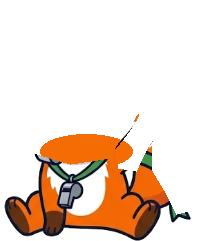
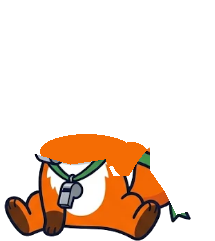
fix(web): el Míster mueve brazo y cabeza sin arrastrar ni perder trazos de la cara
Capas con prioridad brazo > cabeza > cola, brazo recortado a su contorno y rellenos de hombro y cuello limitados al hueco que dejan al girar.

Changed region(s): [[0.5023, 0.5519, 0.7256, 0.7552], [0.614, 0.4647, 0.6419, 0.5228], [0.586, 0.5228, 0.614, 0.5519]]

diff --git a/scripts/rig_mascot.py b/scripts/rig_mascot.py
@@ -27,21 +27,26 @@ RIGS = {
     },
     "brief": {
         "source": "brief",
-        "head": [(0, 0), (229, 0), (229, 116), (166, 118), (150, 140), (132, 152), (92, 158), (52, 152), (36, 134),
-                 (28, 112), (0, 108)],
+        # El brazo pasa bajo el borde de la mejilla con margen: el contorno de la cara se queda en la cabeza.
+        "head": [(0, 0), (229, 0), (229, 116), (166, 118), (150, 140), (132, 152), (92, 158), (52, 154), (38, 138),
+                 (27, 128), (21, 119), (0, 111)],
         "tail": [(156, 116), (229, 116), (229, 206), (196, 218), (176, 206), (154, 160)],
-        "arm": [(0, 112), (26, 112), (34, 132), (48, 148), (52, 168), (38, 176), (6, 170), (0, 152)],
-        "neck": (44, 132, 140, 166),
+        "arm": [(0, 114), (17, 121), (22, 129), (31, 137), (35, 152), (48, 157), (54, 170), (38, 178), (6, 172),
+                (0, 152)],
+        "neck": (64, 140, 122, 166),          # angosto: no asoma bajo las mejillas en reposo
+        "fills": [(28, 150, 56, 178)],         # base del brazo: no queda hueco al mover el dedo
     },
     "alerts": {
         "source": "alerts",
-        # La cabeza sigue el borde de la oreja y el contorno izquierdo del brazo, que cruza sobre la mejilla.
-        "head": [(0, 0), (215, 0), (215, 40), (164, 46), (147, 86), (137, 94), (138, 112), (128, 128), (114, 148),
-                 (110, 158), (70, 164), (30, 152), (0, 132)],
-        "tail": [(152, 142), (160, 128), (166, 118), (215, 118), (215, 204), (176, 214), (164, 190), (152, 170)],
-        "arm": [(138, 92), (150, 85), (161, 83), (173, 88), (175, 100), (166, 118), (157, 133), (148, 146), (141, 159),
-                (136, 171), (118, 168), (115, 150), (129, 132), (139, 116), (136, 104)],
+        # El antebrazo cruza por delante de la mejilla: el brazo se recorta ajustado a su propio contorno (pata,
+        # pulgar y los dos bordes del antebrazo) y la cabeza se queda con todo lo demás, incluido su borde derecho.
+        "arm": [(139, 92), (146, 86), (156, 82), (166, 82), (175, 90), (175, 108), (169, 121), (153, 141), (139, 158),
+                (128, 175), (113, 175), (106, 160), (108, 150), (127, 132), (144, 117), (139, 111), (137, 100)],
+        "head": [(0, 0), (215, 0), (215, 60), (160, 62), (152, 82), (141, 92), (137, 100), (139, 111), (146, 117),
+                 (130, 133), (112, 150), (110, 158), (70, 164), (30, 152), (0, 132)],
+        "tail": [(150, 142), (158, 128), (166, 118), (215, 118), (215, 204), (176, 214), (164, 190), (150, 170)],
         "neck": (40, 134, 132, 168),
+        "fills": [(112, 142, 150, 178)],       # hombro: no queda hueco al saludar
     },
 }
 
@@ -72,13 +77,31 @@ def fur_color(image: Image.Image) -> tuple[int, int, int, int]:
 def build(name: str, rig: dict) -> None:
     image = Image.open(SOURCES / f"{rig['source']}.png").convert("RGBA")
     size = image.size
-    parts = {key: mask(size, rig[key]) for key in ("head", "tail", "arm") if key in rig}
+    # Prioridad brazo > cabeza > cola: cada capa pierde lo que ya tomó la anterior, así ningún trazo queda en dos
+    # capas (al moverse se vería duplicado) ni se pierde (al moverse quedaría un hueco en la cara).
+    parts: dict[str, Image.Image] = {}
+    taken = Image.new("L", size, 0)
+    for key in ("arm", "head", "tail"):
+        if key in rig:
+            parts[key] = ImageChops.subtract(mask(size, rig[key]), taken)
+            taken = ImageChops.lighter(taken, parts[key])
     rest = Image.new("L", size, 255)
     for m in parts.values():
         rest = ImageChops.subtract(rest, m)
     body = layer(image, rest)
     neck = Image.new("RGBA", size, (0, 0, 0, 0))
-    ImageDraw.Draw(neck).ellipse(rig["neck"], fill=fur_color(image))
+    # Rellenos tras el cuerpo, recortados a lo que tapaban cabeza y brazo (y a lo pintado del dibujo): solo aparecen
+    # en el hueco que dejan al girar, nunca sobre el fondo ni sobre la cola.
+    fill = Image.new("L", size, 0)
+    draw = ImageDraw.Draw(fill)
+    for box in [rig["neck"], *rig.get("fills", [])]:
+        draw.ellipse(box, fill=255)
+    movable = Image.new("L", size, 0)
+    for key in ("arm", "head"):
+        if key in parts:
+            movable = ImageChops.lighter(movable, parts[key])
+    covered = ImageChops.multiply(ImageChops.multiply(fill, movable), image.getchannel("A"))   # nunca sobre el fondo
+    neck.paste(fur_color(image), (0, 0), covered)
     body = Image.alpha_composite(neck, body)                 # el cuello queda detrás del cuerpo
     body.save(IMG / f"mister-{name}-body.png", optimize=True)
     for key, m in parts.items():
